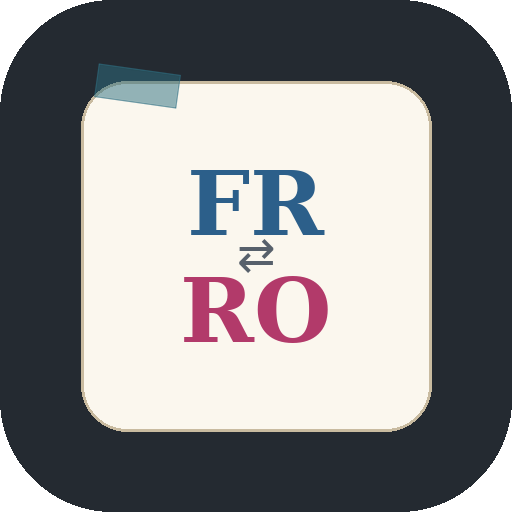
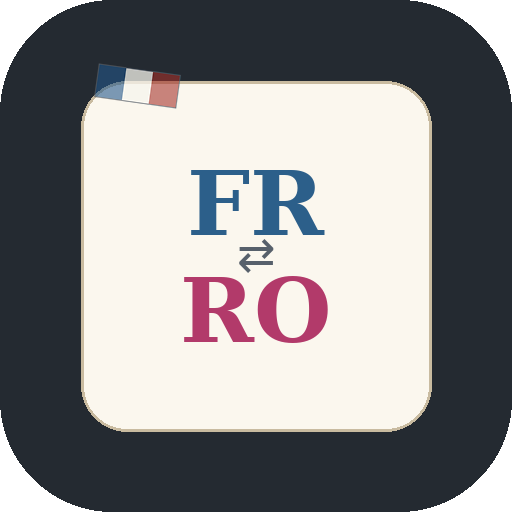
Add files via upload

Changed region(s): [[0.1875, 0.125, 0.375, 0.2188]]

diff --git a/index.html b/index.html
@@ -38,6 +38,12 @@
     overflow:hidden;
   }
 
+  /* ---------- banda tricolora (accent vizual FR) ---------- */
+  .fr-ribbon{
+    flex-shrink:0; height:4px; width:100%;
+    background:linear-gradient(to right, #22578a 0 33.33%, #f7f4ec 33.33% 66.66%, #a5312a 66.66% 100%);
+  }
+
   /* ---------- top bar ---------- */
   .topbar{
     display:flex; align-items:center; justify-content:space-between;
@@ -68,8 +74,9 @@
     padding:22px 18px 18px; flex:1; display:flex; flex-direction:column; min-height:0;
   }
   .card::before{
-    content:""; position:absolute; top:0; left:20px; width:30px; height:12px;
-    background:rgba(201,154,46,0.35); border:1px solid rgba(201,154,46,0.5); transform:rotate(-2deg);
+    content:""; position:absolute; top:0; left:20px; width:34px; height:12px;
+    background:linear-gradient(to right, rgba(34,87,138,0.55) 0 33.33%, rgba(247,244,236,0.75) 33.33% 66.66%, rgba(165,49,42,0.55) 66.66% 100%);
+    border:1px solid rgba(87,96,107,0.35); transform:rotate(-2deg);
   }
   .tag-row{ display:flex; justify-content:space-between; align-items:center; flex-wrap:wrap; font-family:'IBM Plex Mono', monospace;
     font-size:0.66rem; color:var(--ink-soft); margin-bottom:16px; gap:8px; }
@@ -108,12 +115,13 @@
   .opt.wrong{ background:rgba(178,58,46,0.16); border-color:var(--red); }
 
   .stamp{
-    position:absolute; top:38%; right:16px; font-family:'Special Elite', monospace; font-size:1.15rem;
-    padding:6px 14px; border:3px solid; border-radius:6px; transform:rotate(-12deg) scale(0.7); opacity:0;
-    pointer-events:none; letter-spacing:1.5px; transition:transform 0.26s cubic-bezier(.36,1.4,.4,1), opacity 0.2s ease;
-    background:rgba(251,247,238,0.9);
+    position:absolute; top:38%; left:50%; font-family:'Special Elite', monospace; font-size:1.1rem;
+    padding:6px 14px; border:3px solid; border-radius:6px; transform:translate(-50%,-50%) rotate(-10deg) scale(0.7); opacity:0;
+    pointer-events:none; letter-spacing:1.5px; white-space:nowrap; z-index:5;
+    transition:transform 0.26s cubic-bezier(.36,1.4,.4,1), opacity 0.2s ease;
+    background:rgba(251,247,238,0.94);
   }
-  .stamp.show{ opacity:0.92; transform:rotate(-12deg) scale(1); }
+  .stamp.show{ opacity:0.92; transform:translate(-50%,-50%) rotate(-10deg) scale(1); }
   .stamp.ok{ color:var(--green); border-color:var(--green); }
   .stamp.no{ color:var(--red); border-color:var(--red); }
 
@@ -200,6 +208,7 @@
 </head>
 <body>
 
+<div class="fr-ribbon"></div>
 <div class="topbar">
   <div class="brand">La Boîte de Fiches<small>FR ⇄ RO · A1–B2</small></div>
   <div class="top-right">
@@ -388,9 +397,21 @@ function shuffle(arr){
 function escapeHtml(s){
   return String(s).replace(/[&<>"']/g, c => ({'&':'&amp;','<':'&lt;','>':'&gt;','"':'&quot;',"'":'&#39;'}[c]));
 }
+function needsElision(word){
+  // elidare franceza: le/la -> l' inaintea unei vocale sau h mut (simplificare uzuala:
+  // tratam orice cuvant care incepe cu vocala sau "h" ca elidabil)
+  return /^[aeiouâàäéèêëïîôöùûüh]/i.test(word.trim());
+}
 function formatSide(word, side){
   if(side === 'fr'){
-    const artHtml = word.artikel ? `<span class="art art-${word.artikel}">${word.artikel}</span> ` : '';
+    let artHtml = '';
+    if(word.artikel){
+      if(needsElision(word.fr)){
+        artHtml = `<span class="art art-${word.artikel}">l'</span>`;
+      } else {
+        artHtml = `<span class="art art-${word.artikel}">${word.artikel}</span> `;
+      }
+    }
     return { value: word.fr, html: artHtml + escapeHtml(word.fr) };
   }
   return { value: word.ro, html: escapeHtml(word.ro) };
@@ -637,8 +658,10 @@ function handleAnswer(btn, q){
   });
 
   const stamp = document.getElementById('stamp');
-  stamp.textContent = isCorrect ? 'CORRECT !' : 'GREȘIT';
+  stamp.textContent = isCorrect ? 'CORRECT !' : 'INCORRECT !';
   stamp.classList.add(isCorrect ? 'ok' : 'no');
+  stamp.style.top = (btn.offsetTop + btn.offsetHeight / 2) + 'px';
+  stamp.style.left = (btn.offsetLeft + btn.offsetWidth / 2) + 'px';
   requestAnimationFrame(()=> stamp.classList.add('show'));
   document.getElementById('nextBtnBottom').classList.add('show');
 }

diff --git a/sw.js b/sw.js
@@ -1,4 +1,4 @@
-const CACHE_NAME = 'boite-de-fiches-v1';
+const CACHE_NAME = 'boite-de-fiches-v2';
 const APP_SHELL = [
   './index.html',
   './manifest.json',
